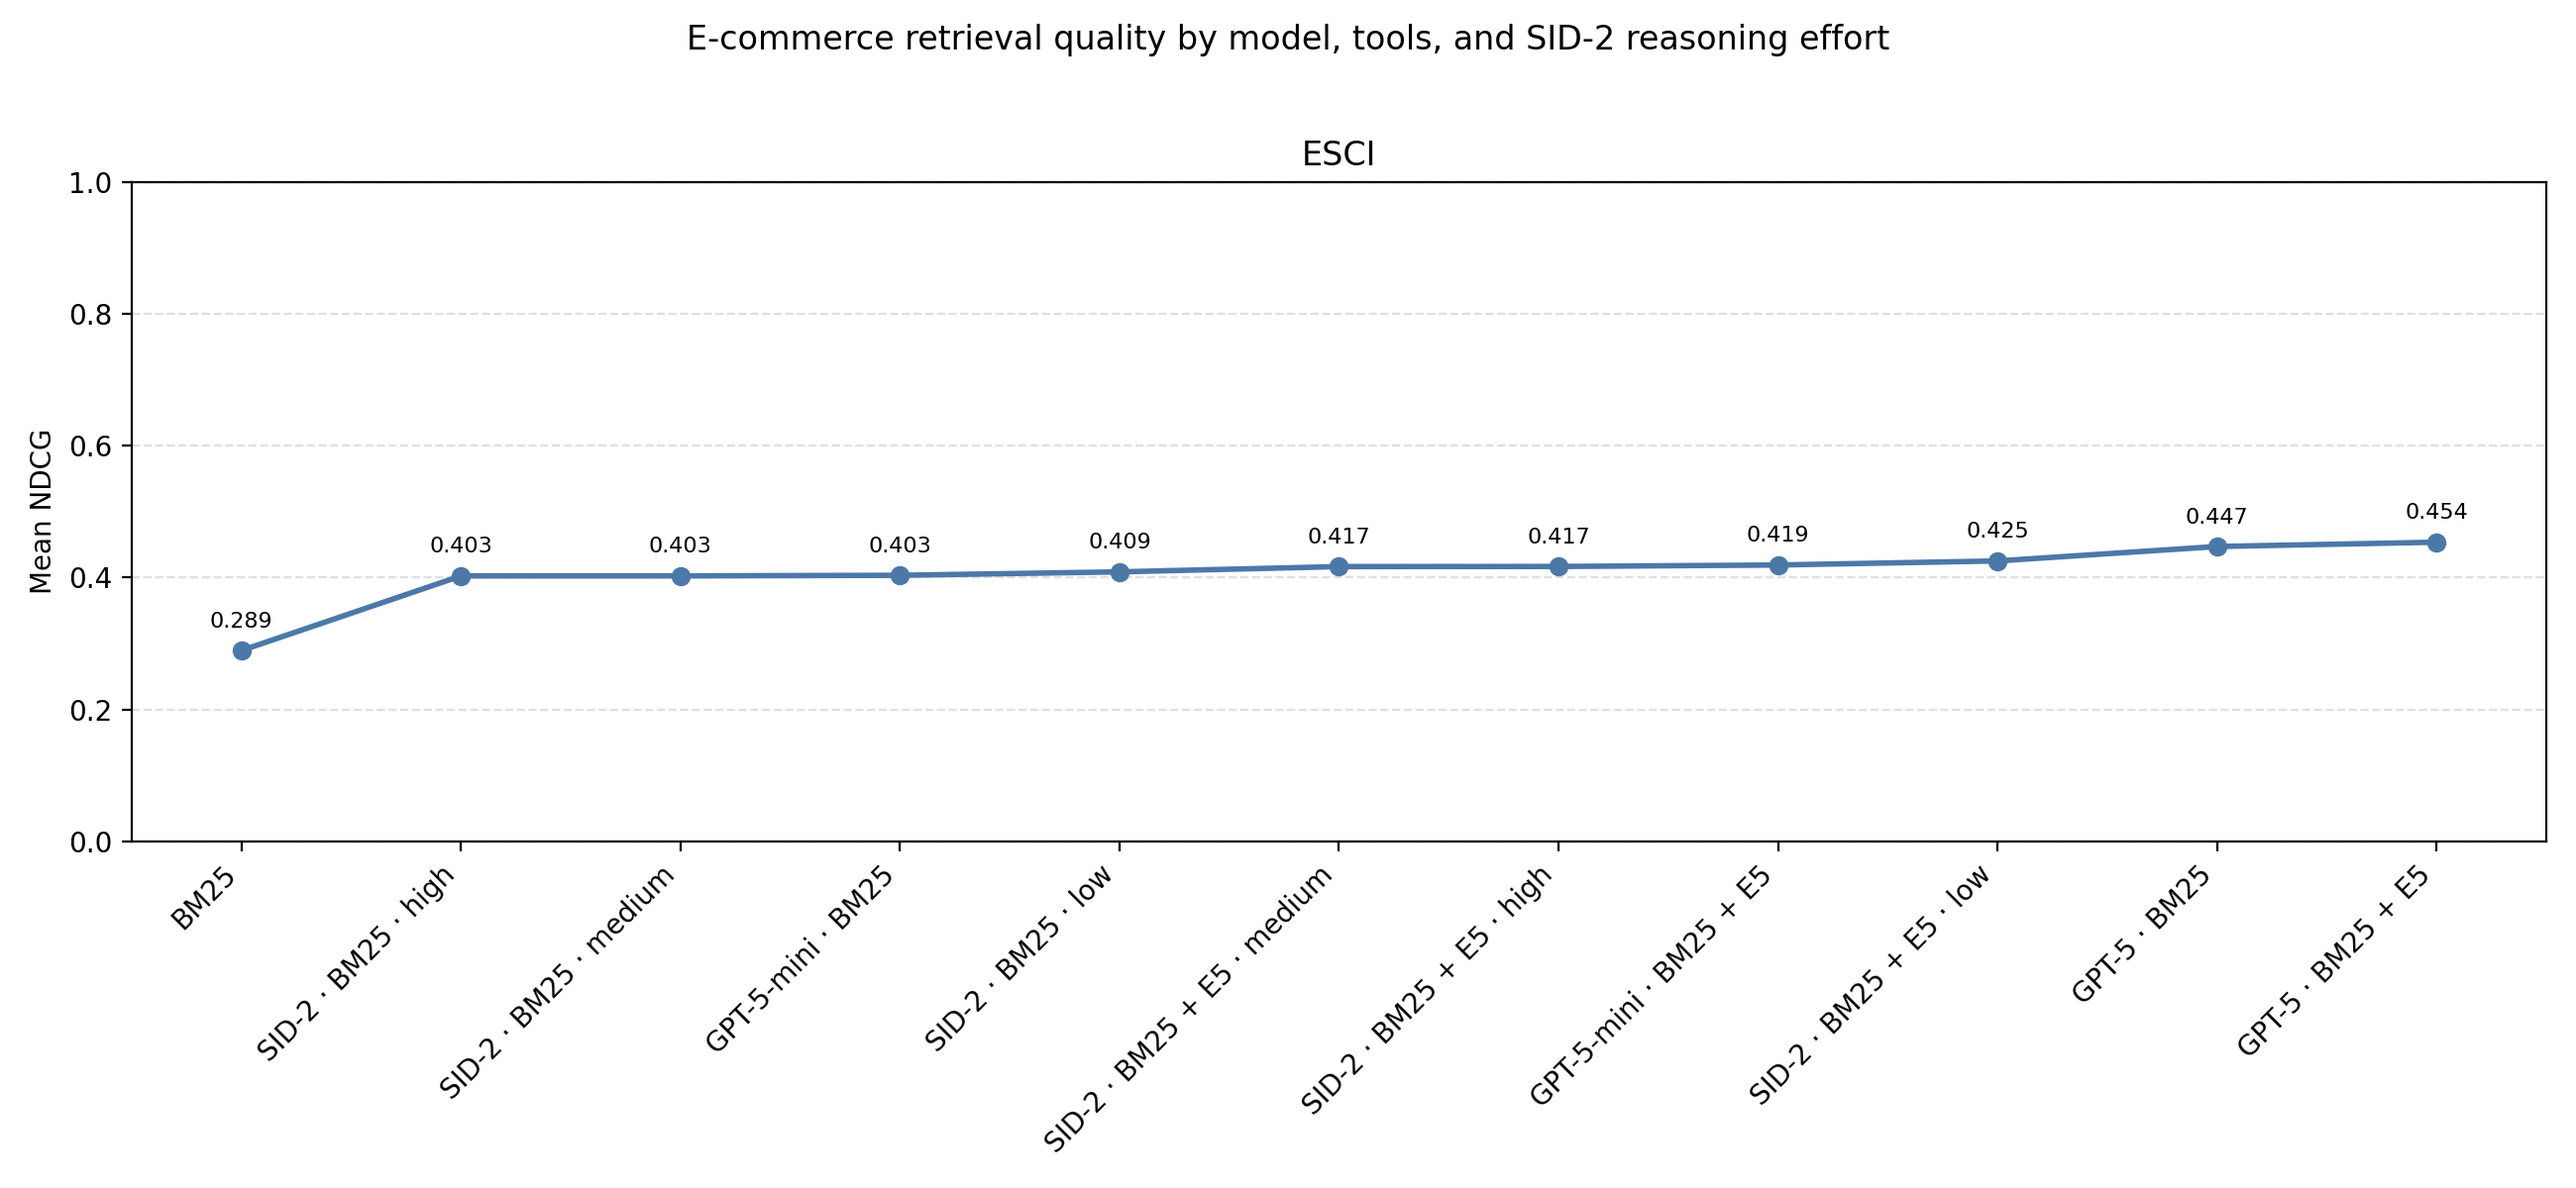
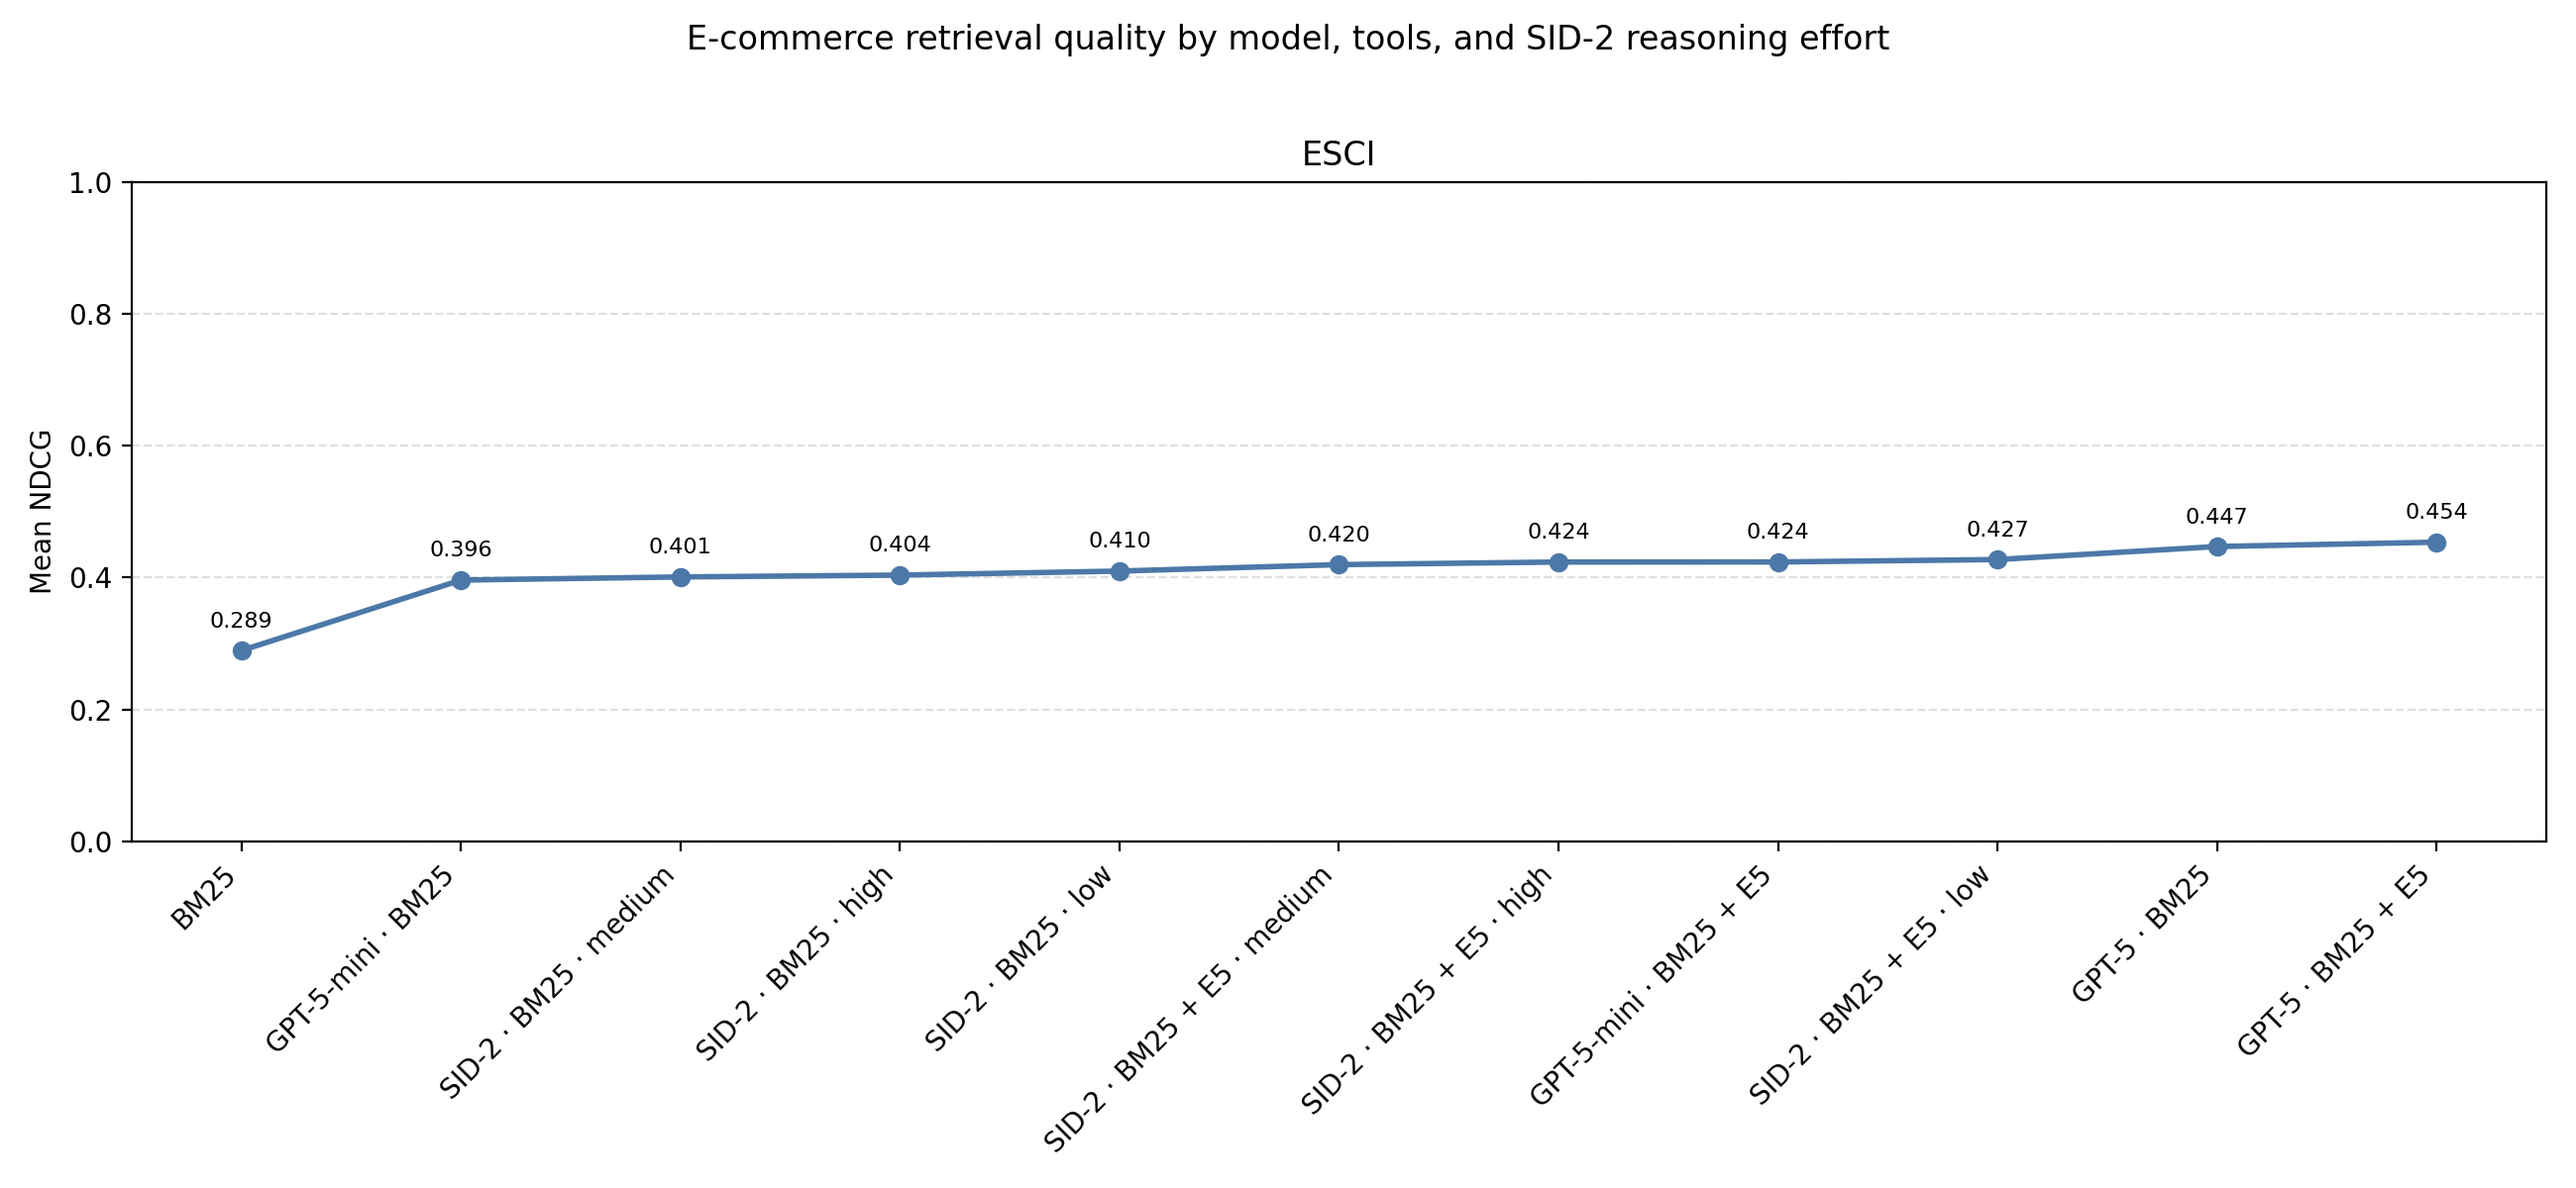
Refresh SID matrix report with output-token Pareto
Update the full-run retrieval tables and charts, and use latest output-token metrics for the Pareto plots.

diff --git a/research/sid/ecommerce_sid_matrix.md b/research/sid/ecommerce_sid_matrix.md
@@ -11,11 +11,11 @@ agents using low, medium, or high reasoning. The agent variants use BM25 alone
 or BM25 with E5-base-v2. Results cover all 480 WANDS queries and a 1,000-query
 ESCI sample, with seed 42.
 
-SID-2's best WANDS result is BM25 with high reasoning (mean NDCG 0.6156), close
-to GPT-5 with BM25 (0.6214). The SID-2 high-reasoning run used 8.719 mean tool
-calls per query versus 6.365 for GPT-5. On ESCI, the best SID-2 result is BM25
-with E5 and low reasoning (0.4253 NDCG, 2.131 tool calls); GPT-5 with BM25 and
-E5 reaches the highest score overall (0.4537).
+In the latest full retrieval run, SID-2's best WANDS result is BM25 with E5 and
+medium reasoning (mean NDCG 0.6151, 3.735 tool calls per query), close to GPT-5
+with BM25 (0.6214). On ESCI, SID-2's best result is BM25 with E5 and low
+reasoning (0.4274 NDCG, 2.133 tool calls); GPT-5 with BM25 and E5 reaches the
+highest score overall (0.4537).
 
 ## Results
 
@@ -23,31 +23,31 @@ E5 reaches the highest score overall (0.4537).
 
 ![WANDS retrieval quality by variant](../../assets/ecom_sid_matrix_wands.png)
 
-The Pareto graphs compare GPT-5-mini and SID-2 by mean generated tokens. Full
-GPT-5 retrieval metrics remain in the chart and table below, but are omitted from
-the token Pareto comparison.
+The Pareto graph compares GPT-5-mini and SID-2 by mean output tokens per query.
+Full GPT-5 retrieval metrics remain in the chart and table below, but are omitted
+from the token Pareto comparison because those historical runs did not report
+token usage.
 
 ![WANDS retrieval and reasoning/output-token Pareto graph](../../assets/ecom_sid_matrix_pareto_wands.png)
 
-| Variant | Mean NDCG | Median NDCG | Mean tool calls/query | Median tool calls/query |
-| --- | ---: | ---: | ---: | ---: |
-| BM25 | 0.5408 | 0.4746 | — | — |
-| GPT-5-mini · BM25 | 0.5878 | 0.5609 | 1.144 | 1.000 |
-| SID-2 · BM25 · low | 0.5932 | 0.5609 | 1.371 | 1.000 |
-| SID-2 · BM25 + E5 · low | 0.5992 | 0.5794 | 2.217 | 2.000 |
-| SID-2 · BM25 · medium | 0.6064 | 0.5609 | 3.577 | 3.000 |
-| GPT-5-mini · BM25 + E5 | 0.6068 | 0.5790 | 1.808 | 2.000 |
-| SID-2 · BM25 + E5 · medium | 0.6075 | 0.5912 | 3.808 | 4.000 |
-| SID-2 · BM25 + E5 · high | 0.6120 | 0.5888 | 8.671 | 6.000 |
-| GPT-5 · BM25 + E5 | 0.6152 | 0.6178 | 5.044 | 4.000 |
-| SID-2 · BM25 · high | 0.6156 | 0.5825 | 8.719 | 6.000 |
-| GPT-5 · BM25 | 0.6214 | 0.6368 | 6.365 | 6.000 |
+| Variant | Mean NDCG | Median NDCG | Mean tool calls/query | Median tool calls/query | Mean output tokens/query |
+| --- | ---: | ---: | ---: | ---: | ---: |
+| BM25 | 0.5408 | 0.4746 | — | — | — |
+| GPT-5-mini · BM25 | 0.5839 | 0.5609 | 1.252 | 1.000 | 1161.5 |
+| SID-2 · BM25 + E5 · low | 0.5964 | 0.5745 | 2.233 | 2.000 | 596.3 |
+| SID-2 · BM25 · low | 0.5967 | 0.5609 | 1.373 | 1.000 | 517.3 |
+| GPT-5-mini · BM25 + E5 | 0.5980 | 0.5609 | 1.702 | 2.000 | 1256.5 |
+| SID-2 · BM25 · medium | 0.6110 | 0.5935 | 3.648 | 3.000 | 639.3 |
+| SID-2 · BM25 + E5 · high | 0.6113 | 0.6119 | 8.419 | 6.000 | 1618.9 |
+| SID-2 · BM25 · high | 0.6116 | 0.6027 | 8.679 | 7.000 | 1526.9 |
+| SID-2 · BM25 + E5 · medium | 0.6151 | 0.5875 | 3.735 | 4.000 | 720.0 |
+| GPT-5 · BM25 + E5 | 0.6152 | 0.6178 | 5.044 | 4.000 | — |
+| GPT-5 · BM25 | 0.6214 | 0.6368 | 6.365 | 6.000 | — |
 
-As SID-2 reasoning increases, mean NDCG rises for both WANDS tool sets, while
-mean tool calls also increase. BM25-only improves from 0.5932 at low to 0.6156
-at high reasoning; mean tool calls increase from 1.371 to 8.719. With E5,
-NDCG increases from 0.5992 to 0.6120, and mean calls increase from 2.217 to
-8.671.
+For SID-2 on WANDS, BM25-only NDCG rises from 0.5967 at low to 0.6116 at high
+reasoning, while mean calls rise from 1.373 to 8.679. With E5, medium reasoning
+has the highest SID-2 NDCG (0.6151); mean calls range from 2.233 at low to 8.419
+at high reasoning.
 
 ### ESCI
 
@@ -55,34 +55,32 @@ NDCG increases from 0.5992 to 0.6120, and mean calls increase from 2.217 to
 
 ![ESCI retrieval and reasoning/output-token Pareto graph](../../assets/ecom_sid_matrix_pareto_esci.png)
 
-| Variant | Mean NDCG | Median NDCG | Mean tool calls/query | Median tool calls/query |
-| --- | ---: | ---: | ---: | ---: |
-| BM25 | 0.2895 | 0.1707 | — | — |
-| SID-2 · BM25 · high | 0.4025 | 0.3434 | 8.030 | 6.000 |
-| SID-2 · BM25 · medium | 0.4026 | 0.3611 | 3.580 | 3.000 |
-| GPT-5-mini · BM25 | 0.4035 | 0.3570 | 1.339 | 1.000 |
-| SID-2 · BM25 · low | 0.4087 | 0.3864 | 1.311 | 1.000 |
-| SID-2 · BM25 + E5 · medium | 0.4167 | 0.3905 | 3.862 | 4.000 |
-| SID-2 · BM25 + E5 · high | 0.4169 | 0.3841 | 7.887 | 6.000 |
-| GPT-5-mini · BM25 + E5 | 0.4191 | 0.3959 | 1.888 | 2.000 |
-| SID-2 · BM25 + E5 · low | 0.4253 | 0.4152 | 2.131 | 2.000 |
-| GPT-5 · BM25 | 0.4471 | 0.4440 | 7.041 | 7.000 |
-| GPT-5 · BM25 + E5 | 0.4537 | 0.4417 | 5.441 | 4.000 |
+| Variant | Mean NDCG | Median NDCG | Mean tool calls/query | Median tool calls/query | Mean output tokens/query |
+| --- | ---: | ---: | ---: | ---: | ---: |
+| BM25 | 0.2895 | 0.1707 | — | — | — |
+| GPT-5-mini · BM25 | 0.3963 | 0.3414 | 1.503 | 1.000 | 1995.5 |
+| SID-2 · BM25 · medium | 0.4010 | 0.3696 | 3.660 | 3.000 | 649.0 |
+| SID-2 · BM25 · high | 0.4038 | 0.3691 | 7.932 | 6.000 | 1527.9 |
+| SID-2 · BM25 · low | 0.4099 | 0.3955 | 1.304 | 1.000 | 453.4 |
+| SID-2 · BM25 + E5 · medium | 0.4197 | 0.3920 | 3.838 | 4.000 | 704.0 |
+| SID-2 · BM25 + E5 · high | 0.4236 | 0.4097 | 8.010 | 6.000 | 1648.8 |
+| GPT-5-mini · BM25 + E5 | 0.4237 | 0.4097 | 2.051 | 2.000 | 2364.8 |
+| SID-2 · BM25 + E5 · low | 0.4274 | 0.4220 | 2.133 | 2.000 | 510.8 |
+| GPT-5 · BM25 | 0.4471 | 0.4440 | 7.041 | 7.000 | — |
+| GPT-5 · BM25 + E5 | 0.4537 | 0.4417 | 5.441 | 4.000 | — |
 
 For SID-2 on ESCI, low reasoning has the highest NDCG for both tool sets. Adding
-E5 raises the low-reasoning score from 0.4087 to 0.4253, with mean tool calls
-increasing from 1.311 to 2.131. Medium and high reasoning do not improve on the
+E5 raises the low-reasoning score from 0.4099 to 0.4274, with mean tool calls
+increasing from 1.304 to 2.133. Medium and high reasoning do not improve on the
 low-reasoning scores.
 
-`—` means the run did not report tool-call resource statistics. NDCG values are
-rounded to four decimal places; tool-call statistics are rounded to three. The
-token Pareto graphs use a 10-query spot check in
-[`ecom_sid_matrix_token_spotcheck.csv`](../results/ecom_sid_matrix_token_spotcheck.csv).
-Their x-axis is mean `output_tokens` per query, which includes reasoning tokens.
-The retrieval tables and charts use the full-run results in
-[`ecom_sid_matrix.csv`](../results/ecom_sid_matrix.csv). The historical GPT-5
-rows retain their retrieval metrics but do not have spot-check token data, so
-they are excluded from the token Pareto graphs.
+`—` means the run did not report that resource statistic. NDCG values are
+rounded to four decimal places; tool-call statistics to three; and output-token
+means to one decimal. The retrieval tables, retrieval charts, and token Pareto
+charts use the latest full-run results in
+[`ecom_sid_matrix.csv`](../results/ecom_sid_matrix.csv). Pareto x-values are mean
+`output_tokens` per query, which includes reasoning tokens. Historical GPT-5
+rows lack token statistics and are excluded from the token Pareto charts.
 
 ## Configuration and reproduction
 
@@ -95,36 +93,26 @@ and [`configs/ecom_agentic/`](../../configs/ecom_agentic/).
 
 The machine-readable results are in
 [`research/results/ecom_sid_matrix.csv`](../results/ecom_sid_matrix.csv).
-The runner uses eight workers by default and seed 42. To regenerate retrieval
-charts from the full-run CSV and Pareto charts from the token spot-check CSV
-without running models:
+The runner uses eight workers by default and seed 42. To regenerate the
+retrieval and output-token Pareto charts from the full-run CSV without running
+models:
 
 ```bash
 uv run python scripts/plot_ecom_sid_matrix.py \
   --input research/results/ecom_sid_matrix.csv \
-  --pareto-input research/results/ecom_sid_matrix_token_spotcheck.csv \
   --output-prefix assets/ecom_sid_matrix
 ```
 
-To refresh GPT-5-mini and SID results, preserving BM25 and full GPT-5 rows while
-bypassing the refreshed strategies' result caches, use the following spot-check
-settings:
+To refresh GPT-5-mini and SID results, preserving BM25 and full GPT-5 rows, run:
 
 ```bash
-ESCI_NUM_QUERIES=10 WANDS_NUM_QUERIES=10 \
-RESULTS_CSV=research/results/ecom_sid_matrix_token_spotcheck.csv \
-PLOT_OUTPUT_PREFIX=/tmp/ecom_sid_matrix_token_spotcheck \
 RERUN_SID_VARIANTS=true ./scripts/run_ecom_sid_matrix.sh
 ```
 
-This produces the 10-query token CSV without changing the full-run result CSV.
-Then rerun the plotting command above to write the retrieval charts and the
-token Pareto charts to the report assets. The runner's matrix configurations are
-BM25, GPT-5-mini, and SID; it does not rerun full GPT-5. Existing full GPT-5
-result rows are preserved for the retrieval chart and table. Setting
-`RERUN_SID_VARIANTS=false` runs BM25, GPT-5-mini, and SID variants. `NO_CACHE=true`
-bypasses result caches for all selected variants and can incur new model API
-usage.
+This bypasses result caches for the refreshed strategies. The runner's matrix
+configurations include BM25, GPT-5-mini, and SID; it does not rerun full GPT-5.
+Existing BM25 and full GPT-5 rows are preserved. `NO_CACHE=true` bypasses result
+caches for all selected variants and can incur new model API usage.
 
 ## Related search learning material
 
